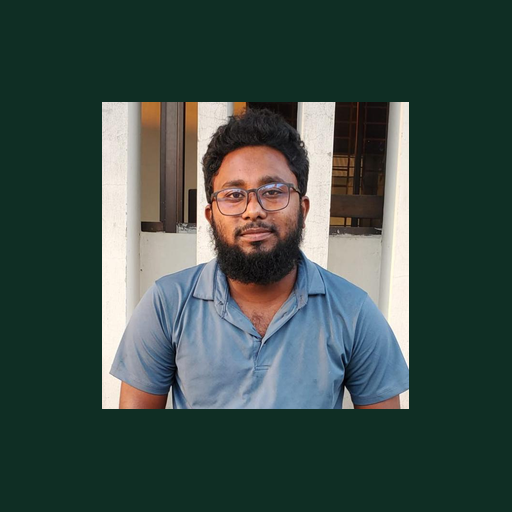
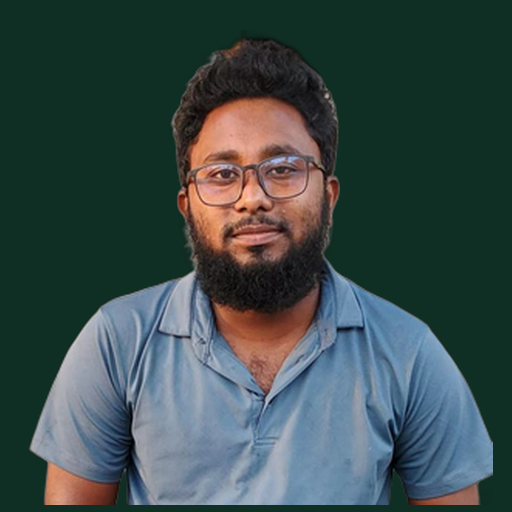
Add files via upload

diff --git a/index.html b/index.html
@@ -3506,7 +3506,25 @@ document.getElementById('pwChangeOkBtn').addEventListener('click', async ()=>{
 
 /* ---------------- SETTINGS ---------------- */
 function renderSettings(){
+  const installCardHtml = isRunningStandalone() ? `
+    <div class="card">
+      <h2>📲 অ্যাপ ইনস্টল করা আছে</h2>
+      <p style="font-size:13px;color:var(--muted);margin:0;">এই ডিভাইসে অ্যাপটি ইতিমধ্যে ইনস্টল করা আছে এবং নিজের মতো (স্ট্যান্ডঅ্যালোন) খুলছে।</p>
+    </div>
+  ` : window.__deferredInstallPrompt ? `
+    <div class="card">
+      <h2>📲 অ্যাপ ইনস্টল করুন</h2>
+      <p style="font-size:13px;color:var(--muted);margin:0 0 8px;">হোম স্ক্রিনে যোগ করে ব্রাউজার ছাড়াই আলাদা অ্যাপের মতো খুলতে চাইলে নিচের বাটনে চাপুন।</p>
+      <button class="btn full" id="pwaInstallBtn">এখনই ইনস্টল করুন</button>
+    </div>
+  ` : `
+    <div class="card">
+      <h2>📲 অ্যাপ ইনস্টল করুন</h2>
+      <p style="font-size:13px;color:var(--muted);margin:0;">ইনস্টল অপশন এখনো প্রস্তুত হয়নি। GitHub-এর সোর্স কোড লিংক নয় — GitHub Pages-এ হোস্ট করা আসল লিংকে (https দিয়ে শুরু) ভিজিট করুন, এবং Chrome-এর ঠিকানাবারের ⋮ মেনু থেকে "Install app" / "হোম স্ক্রিনে যোগ করুন" চেপে দেখুন।</p>
+    </div>
+  `;
   main.innerHTML = `
+    ${installCardHtml}
     <div class="card">
       <h2>🧪 তারিখ টেস্ট করুন</h2>
       <p style="font-size:13px;color:var(--muted);margin:0 0 6px;">আপনার ফোনের আসল তারিখ না বদলিয়ে, অ্যাপ যেন অন্য একটা তারিখকে "আজ" ধরে কাজ করে তা এখানে সেট করতে পারবেন — যেমন মাস বদলালে আয়/খরচ ঠিকমতো ০ থেকে শুরু হয় কিনা যাচাই করতে।</p>
@@ -3554,6 +3572,17 @@ service cloud.firestore {
 }</pre>
     </div>
   `;
+  const pwaInstallBtn = document.getElementById('pwaInstallBtn');
+  if(pwaInstallBtn){
+    pwaInstallBtn.addEventListener('click', async ()=>{
+      const promptEvent = window.__deferredInstallPrompt;
+      if(!promptEvent) return;
+      promptEvent.prompt();
+      await promptEvent.userChoice;
+      window.__deferredInstallPrompt = null;
+      renderSettings();
+    });
+  }
   document.getElementById('setTestDate').addEventListener('click', async ()=>{
     const val = document.getElementById('testDateInput').value;
     if(!val){ toast('একটা তারিখ বেছে নিন'); return; }
@@ -3620,6 +3649,25 @@ if('serviceWorker' in navigator){
   window.addEventListener('load', ()=>{
     navigator.serviceWorker.register('sw.js').catch(()=>{});
   });
+}
+
+/* ---------------- PWA: manual install prompt ----------------
+   ব্রাউজার নিজে থেকে ইনস্টল ব্যানার সবসময় দেখায় না (এটা এনগেজমেন্টের
+   উপর নির্ভর করে), তাই beforeinstallprompt ধরে রেখে সেটিংস ট্যাবে
+   একটা "ইনস্টল করুন" বাটন দেখানো হচ্ছে যাতে ব্যবহারকারী চাইলেই ইনস্টল
+   করতে পারেন। */
+window.__deferredInstallPrompt = null;
+window.addEventListener('beforeinstallprompt', (e)=>{
+  e.preventDefault();
+  window.__deferredInstallPrompt = e;
+  if(typeof activeTab!=='undefined' && activeTab==='settings') renderSettings();
+});
+window.addEventListener('appinstalled', ()=>{
+  window.__deferredInstallPrompt = null;
+  if(typeof activeTab!=='undefined' && activeTab==='settings') renderSettings();
+});
+function isRunningStandalone(){
+  return window.matchMedia('(display-mode: standalone)').matches || window.navigator.standalone===true;
 }
 </script>
 </body>
